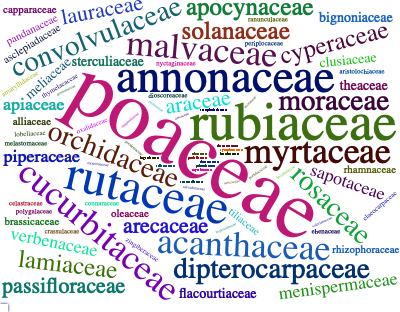
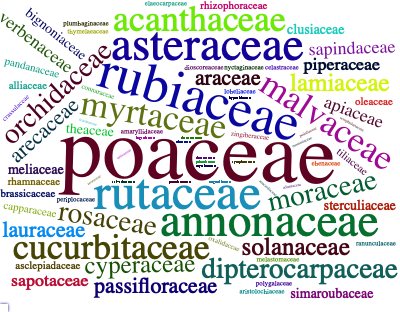
ready for CRAN submission

diff --git a/docs/articles/MedLEA.html b/docs/articles/MedLEA.html
@@ -75,11 +75,7 @@
     
     
 <div class="sourceCode" id="cb1"><pre class="downlit sourceCode r">
-<code class="sourceCode R"><span class="kw"><a href="https://rdrr.io/r/base/library.html">library</a></span><span class="op">(</span><span class="va">MedLEA</span><span class="op">)</span>
-<span class="co">#&gt; Loading required package: patchwork</span>
-<span class="co">#&gt; Loading required package: tm</span>
-<span class="co">#&gt; Loading required package: NLP</span>
-<span class="co">#&gt; Loading required package: wordcloud2</span></code></pre></div>
+<code class="sourceCode R"><span class="kw"><a href="https://rdrr.io/r/base/library.html">library</a></span><span class="op">(</span><span class="va">MedLEA</span><span class="op">)</span></code></pre></div>
 <div id="wordcloud-of-family-of-the-medicinal-plants" class="section level2">
 <h2 class="hasAnchor">
 <a href="#wordcloud-of-family-of-the-medicinal-plants" class="anchor"></a>Wordcloud of Family of the Medicinal Plants</h2>
@@ -100,8 +96,8 @@
 <span class="va">df</span> <span class="op">&lt;-</span> <span class="fu"><a href="https://rdrr.io/r/base/data.frame.html">data.frame</a></span><span class="op">(</span>word <span class="op">=</span> <span class="fu"><a href="https://rdrr.io/r/base/names.html">names</a></span><span class="op">(</span><span class="va">words</span><span class="op">)</span>, freq <span class="op">=</span> <span class="va">words</span><span class="op">)</span>
 <span class="va">p1</span> <span class="op">&lt;-</span> <span class="fu"><a href="https://rdrr.io/pkg/wordcloud2/man/wordcloud2.html">wordcloud2</a></span><span class="op">(</span>data <span class="op">=</span> <span class="va">df</span>, size <span class="op">=</span> <span class="fl">0.9</span>,color <span class="op">=</span> <span class="st">'random-dark'</span>, shape <span class="op">=</span> <span class="st">'pentagon'</span><span class="op">)</span>
 <span class="va">p1</span></code></pre></div>
-<div id="htmlwidget-6388ae1c2207f30bd1bb" style="width:700px;height:432.632880098888px;" class="wordcloud2 html-widget"></div>
-<script type="application/json" data-for="htmlwidget-6388ae1c2207f30bd1bb">{"x":{"word":["fabaceae","euphorbiaceae","poaceae","rubiaceae","rutaceae","annonaceae","asteraceae","myrtaceae","cucurbitaceae","malvaceae","acanthaceae","convolvulaceae","dipterocarpaceae","orchidaceae","rosaceae","moraceae","solanaceae","lamiaceae","cyperaceae","apocynaceae","passifloraceae","araceae","amaranthaceae","arecaceae","lauraceae","piperaceae","menispermaceae","sapotaceae","apiaceae","verbenaceae","sapindaceae","flacourtiaceae","sterculiaceae","meliaceae","simaroubaceae","theaceae","bignoniaceae","clusiaceae","rhamnaceae","brassicaceae","rhizophoraceae","oleaceae","asclepiadaceae","tiliaceae","pandanaceae","capparaceae","polygonaceae","alliaceae","zingiberaceae","amaryllidaceae","dioscoreaceae","lobeliaceae","nyctaginaceae","connaraceae","melastomaceae","elaeocarpaceae","periplocaceae","thymelaeaceae","ebenaceae","polygalaceae","aristolochiaceae","crassulaceae","plumbaginaceae","celastraceae","ranunculaceae","oxalidaceae","pedaliaceae","droseraceae","dracaenaceae","primulaceae","symplocaceae","portulacaceae","icacinaceae","anacardiaceae","urticaceae","ulmaceae","magnoliaceae","myrsinaceae","salvadoraceae","acoraceae","hypoxidaceae","scrophulariaceae","adiantaceae","monimiaceae","loganiaceae","ericaceae","lecythidaceae","goodeniaceae","valerianaceae","proteaceae","gentianaceae","pteridaceae","myristicaceae","nyctanthaceae","santalaceae","burseraceae","alangiaceae","papaveraceae","menyanthaceae","dryopteridaceae","nymphaeaceae","hernandiaceae","ophioglosaceae","eriocaulaceae","loranthaceae","olacaceae","malpighiaceae","saxifraginaceae","molluginaceae","blechnaceae","parkeriaceae","cactaceae","sabiaceae","colchicaceae","mariyniaceae","asparagaceae","moringaceae","punicaceae"],"freq":[45,33,24,15,14,13,13,10,10,10,10,8,8,8,8,8,7,7,7,7,6,6,6,6,6,5,5,5,5,5,5,4,4,4,4,4,4,4,3,3,3,3,3,3,3,3,3,3,2,2,2,2,2,2,2,2,2,2,2,2,2,2,2,2,2,2,1,1,1,1,1,1,1,1,1,1,1,1,1,1,1,1,1,1,1,1,1,1,1,1,1,1,1,1,1,1,1,1,1,1,1,1,1,1,1,1,1,1,1,1,1,1,1,1,1,1,1,1],"fontFamily":"Segoe UI","fontWeight":"bold","color":"random-dark","minSize":0,"weightFactor":3.6,"backgroundColor":"white","gridSize":0,"minRotation":-0.785398163397448,"maxRotation":0.785398163397448,"shuffle":true,"rotateRatio":0.4,"shape":"pentagon","ellipticity":0.65,"figBase64":null,"hover":null},"evals":[],"jsHooks":{"render":[{"code":"function(el,x){\n                        console.log(123);\n                        if(!iii){\n                          window.location.reload();\n                          iii = False;\n\n                        }\n  }","data":null}]}}</script>
+<div id="htmlwidget-49ec9f7cde3872d712fc" style="width:700px;height:432.632880098888px;" class="wordcloud2 html-widget"></div>
+<script type="application/json" data-for="htmlwidget-49ec9f7cde3872d712fc">{"x":{"word":["fabaceae","euphorbiaceae","poaceae","rubiaceae","rutaceae","annonaceae","asteraceae","myrtaceae","cucurbitaceae","malvaceae","acanthaceae","convolvulaceae","dipterocarpaceae","orchidaceae","rosaceae","moraceae","solanaceae","lamiaceae","cyperaceae","apocynaceae","passifloraceae","araceae","amaranthaceae","arecaceae","lauraceae","piperaceae","menispermaceae","sapotaceae","apiaceae","verbenaceae","sapindaceae","flacourtiaceae","sterculiaceae","meliaceae","simaroubaceae","theaceae","bignoniaceae","clusiaceae","rhamnaceae","brassicaceae","rhizophoraceae","oleaceae","asclepiadaceae","tiliaceae","pandanaceae","capparaceae","polygonaceae","alliaceae","zingiberaceae","amaryllidaceae","dioscoreaceae","lobeliaceae","nyctaginaceae","connaraceae","melastomaceae","elaeocarpaceae","periplocaceae","thymelaeaceae","ebenaceae","polygalaceae","aristolochiaceae","crassulaceae","plumbaginaceae","celastraceae","ranunculaceae","oxalidaceae","pedaliaceae","droseraceae","dracaenaceae","primulaceae","symplocaceae","portulacaceae","icacinaceae","anacardiaceae","urticaceae","ulmaceae","magnoliaceae","myrsinaceae","salvadoraceae","acoraceae","hypoxidaceae","scrophulariaceae","adiantaceae","monimiaceae","loganiaceae","ericaceae","lecythidaceae","goodeniaceae","valerianaceae","proteaceae","gentianaceae","pteridaceae","myristicaceae","nyctanthaceae","santalaceae","burseraceae","alangiaceae","papaveraceae","menyanthaceae","dryopteridaceae","nymphaeaceae","hernandiaceae","ophioglosaceae","eriocaulaceae","loranthaceae","olacaceae","malpighiaceae","saxifraginaceae","molluginaceae","blechnaceae","parkeriaceae","cactaceae","sabiaceae","colchicaceae","mariyniaceae","asparagaceae","moringaceae","punicaceae"],"freq":[45,33,24,15,14,13,13,10,10,10,10,8,8,8,8,8,7,7,7,7,6,6,6,6,6,5,5,5,5,5,5,4,4,4,4,4,4,4,3,3,3,3,3,3,3,3,3,3,2,2,2,2,2,2,2,2,2,2,2,2,2,2,2,2,2,2,1,1,1,1,1,1,1,1,1,1,1,1,1,1,1,1,1,1,1,1,1,1,1,1,1,1,1,1,1,1,1,1,1,1,1,1,1,1,1,1,1,1,1,1,1,1,1,1,1,1,1,1],"fontFamily":"Segoe UI","fontWeight":"bold","color":"random-dark","minSize":0,"weightFactor":3.6,"backgroundColor":"white","gridSize":0,"minRotation":-0.785398163397448,"maxRotation":0.785398163397448,"shuffle":true,"rotateRatio":0.4,"shape":"pentagon","ellipticity":0.65,"figBase64":null,"hover":null},"evals":[],"jsHooks":{"render":[{"code":"function(el,x){\n                        console.log(123);\n                        if(!iii){\n                          window.location.reload();\n                          iii = False;\n\n                        }\n  }","data":null}]}}</script>
 </div>
 <div id="composition-of-the-sample-by-shape-and-edge-type-of-leaves" class="section level2">
 <h2 class="hasAnchor">

diff --git a/docs/index.html b/docs/index.html
@@ -90,6 +90,10 @@
 <a href="#example" class="anchor"></a>Example</h2>
 <div class="sourceCode" id="cb2"><pre class="downlit sourceCode r">
 <code class="sourceCode R"><span class="kw"><a href="https://rdrr.io/r/base/library.html">library</a></span><span class="op">(</span><span class="va">MedLEA</span><span class="op">)</span>
+<span class="co">#&gt; Loading required package: patchwork</span>
+<span class="co">#&gt; Loading required package: tm</span>
+<span class="co">#&gt; Loading required package: NLP</span>
+<span class="co">#&gt; Loading required package: wordcloud2</span>
 <span class="fu"><a href="https://rdrr.io/r/utils/data.html">data</a></span><span class="op">(</span><span class="st">"medlea"</span><span class="op">)</span>
 <span class="fu"><a href="https://rdrr.io/r/utils/head.html">head</a></span><span class="op">(</span><span class="va">medlea</span><span class="op">)</span>
 <span class="co">#&gt;   ID                                             Sinhala_Name   Family_Name</span>
@@ -184,6 +188,15 @@
 <span class="fu">ggplot</span><span class="op">(</span><span class="va">d29</span>, <span class="fu">aes</span><span class="op">(</span>fill <span class="op">=</span> <span class="va">Edges</span>, x<span class="op">=</span><span class="va">Shape</span> , y<span class="op">=</span><span class="va">No_of_leaves</span><span class="op">)</span><span class="op">)</span> <span class="op">+</span> <span class="fu">labs</span><span class="op">(</span>y<span class="op">=</span><span class="st">"Number of leaves"</span>, x<span class="op">=</span><span class="st">"Shape of the leaf"</span><span class="op">)</span> <span class="op">+</span> <span class="fu">geom_bar</span><span class="op">(</span>stat <span class="op">=</span> <span class="st">"identity"</span>, width <span class="op">=</span> <span class="fl">0.5</span>, position <span class="op">=</span> <span class="fu">position_dodge</span><span class="op">(</span><span class="op">)</span><span class="op">)</span> <span class="op">+</span> <span class="fu">coord_flip</span><span class="op">(</span><span class="op">)</span> <span class="op">+</span> <span class="fu">ggtitle</span><span class="op">(</span><span class="st">"Composition of the sample by Shape Label and Edge type"</span><span class="op">)</span> <span class="op">+</span> <span class="fu">scale_fill_brewer</span><span class="op">(</span>palette <span class="op">=</span> <span class="st">"Set1"</span><span class="op">)</span>  </code></pre></div>
 <p><img src="reference/figures/README-example4-1.png" width="100%"></p>
 </div>
+<div id="load-medicinal-plant-images" class="section level2">
+<h2 class="hasAnchor">
+<a href="#load-medicinal-plant-images" class="anchor"></a>Load Medicinal Plant Images</h2>
+<div class="sourceCode" id="cb7"><pre class="sourceCode r"><code class="sourceCode r"><a class="sourceLine" id="cb7-1" data-line-number="1"><span class="kw">load_images</span>()</a>
+<a class="sourceLine" id="cb7-2" data-line-number="2">[<span class="dv">1</span>] <span class="st">"The repository of leaf images of medicinal plants in Sri Lanka is collected by following the image acquisition steps that we identified."</span></a>
+<a class="sourceLine" id="cb7-3" data-line-number="3">[<span class="dv">1</span>] <span class="st">"The repository contains 1099 leaf images of 31 species and 29-45 images per species.These have simple arrangement. The photographs were taken from the device, Huawei nova 3i. The closest photographs were captured on a white background."</span></a>
+<a class="sourceLine" id="cb7-4" data-line-number="4">[<span class="dv">1</span>] <span class="st">"All the leaf images are in a google drive folder that anyone can access. You can download the images directly from the drive."</span></a>
+<a class="sourceLine" id="cb7-5" data-line-number="5">[<span class="dv">1</span>] <span class="st">"The shareable link: https://drive.google.com/drive/folders/1W3ap8UhBCIVN5U_UUVSZeTh7VG4Jqbev?usp=sharing"</span></a></code></pre></div>
+</div>
 </div>
   </div>
 
@@ -192,7 +205,7 @@
 <h2>License</h2>
 <ul class="list-unstyled">
 <li><a href="LICENSE.html">Full license</a></li>
-<li><small><a href="https://www.r-project.org/Licenses/GPL-3">GPL-3</a></small></li>
+<li><small><a href="https://www.r-project.org/Licenses/GPL-3">GPL-3</a> + file <a href="LICENSE-text.html">LICENSE</a></small></li>
 </ul>
 </div>
 <div class="developers">

diff --git a/docs/reference/load_images.html b/docs/reference/load_images.html
@@ -115,9 +115,23 @@
     <p>A repository of leaf images of medicinal plants in Sri Lanka. The repository contains 1099 leaf images of 31 species and 29-45 images per species.</p>
     </div>
 
-    <pre class="usage"><span class='fu'>load_images</span><span class='op'>(</span><span class='op'>)</span></pre>
+    <pre class="usage"><span class='fu'>load_images</span><span class='op'>(</span>linkonly <span class='op'>=</span> <span class='cn'>FALSE</span><span class='op'>)</span></pre>
 
+    <h2 class="hasAnchor" id="arguments"><a class="anchor" href="#arguments"></a>Arguments</h2>
+    <table class="ref-arguments">
+    <colgroup><col class="name" /><col class="desc" /></colgroup>
+    <tr>
+      <th>linkonly</th>
+      <td><p>if TRUE only the shareable link will be displayed.</p></td>
+    </tr>
+    </table>
 
+    <h2 class="hasAnchor" id="value"><a class="anchor" href="#value"></a>Value</h2>
+
+    <p>character listing the details of the dataset</p>
+    <h2 class="hasAnchor" id="details"><a class="anchor" href="#details"></a>Details</h2>
+
+    <p>Download leaf image repository</p>
 
   </div>
   <div class="col-md-3 hidden-xs hidden-sm" id="pkgdown-sidebar">

diff --git a/docs/reference/index.html b/docs/reference/index.html
@@ -125,6 +125,22 @@
       </tr>
       
       
+    </tbody><tbody>
+      
+      
+      <tr>
+        
+        <td>
+          <p><code><a href="medlea.html">medlea</a></code> </p>
+        </td>
+        <td><p>Features of Medicinal Plants</p></td>
+      </tr><tr>
+        
+        <td>
+          <p><code><a href="load_images.html">load_images()</a></code> </p>
+        </td>
+        <td><p>Obtain link to download 1099 leaf images</p></td>
+      </tr>
     </tbody>
     </table>
   </div>

diff --git a/README.md b/README.md
@@ -35,6 +35,10 @@ devtools::install_github("SMART-Research/MedLEA")
 
 ``` r
 library(MedLEA)
+#> Loading required package: patchwork
+#> Loading required package: tm
+#> Loading required package: NLP
+#> Loading required package: wordcloud2
 data("medlea")
 head(medlea)
 #>   ID                                             Sinhala_Name   Family_Name
@@ -134,3 +138,13 @@ ggplot(d29, aes(fill = Edges, x=Shape , y=No_of_leaves)) + labs(y="Number of lea
 ```
 
 <img src="man/figures/README-example4-1.png" width="100%" />
+
+## Load Medicinal Plant Images
+
+``` r
+load_images()
+[1] "The repository of leaf images of medicinal plants in Sri Lanka is collected by following the image acquisition steps that we identified."
+[1] "The repository contains 1099 leaf images of 31 species and 29-45 images per species.These have simple arrangement. The photographs were taken from the device, Huawei nova 3i. The closest photographs were captured on a white background."
+[1] "All the leaf images are in a google drive folder that anyone can access. You can download the images directly from the drive."
+[1] "The shareable link: https://drive.google.com/drive/folders/1W3ap8UhBCIVN5U_UUVSZeTh7VG4Jqbev?usp=sharing"
+```
